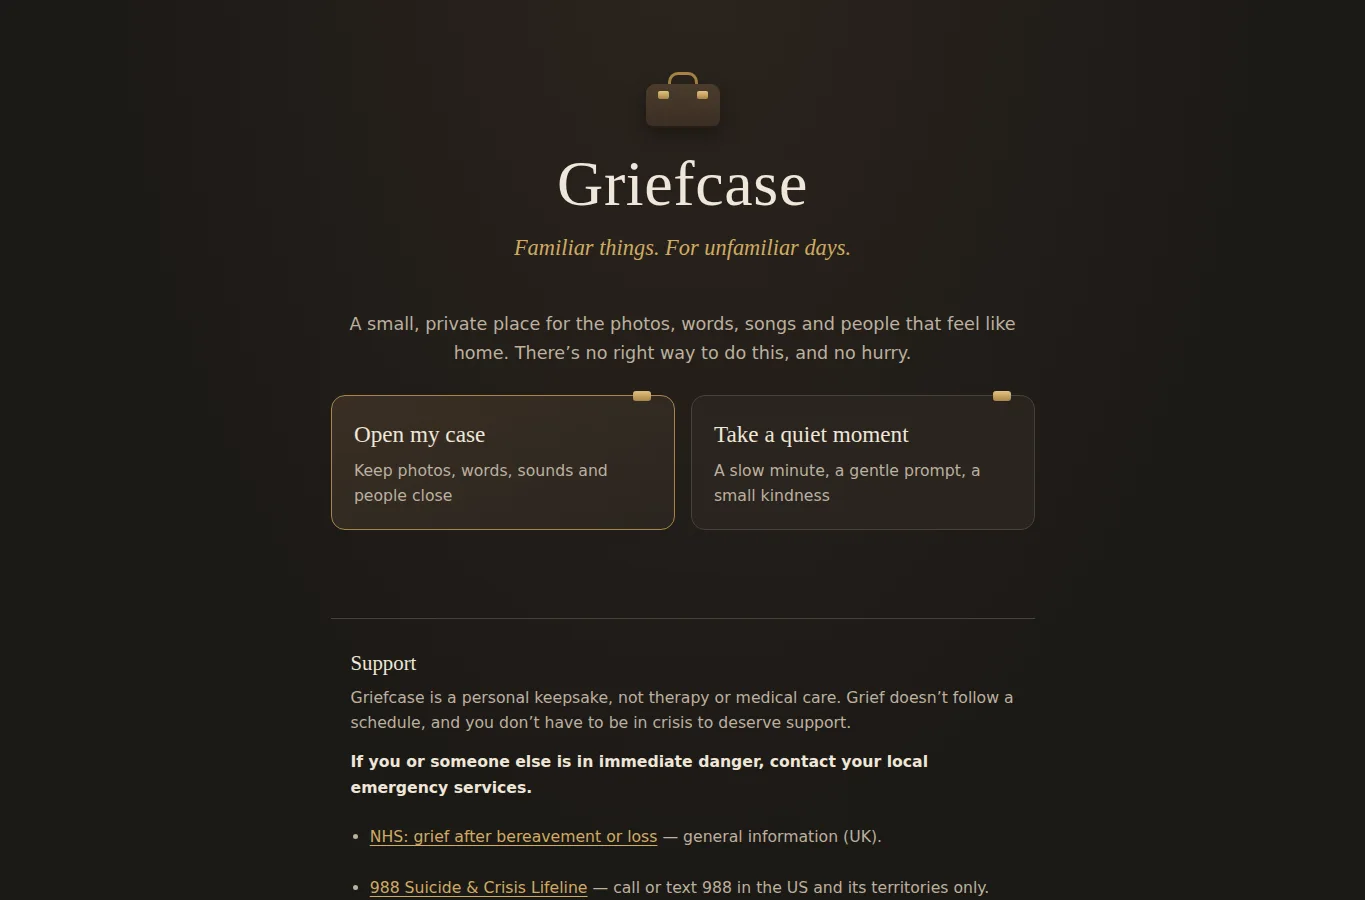
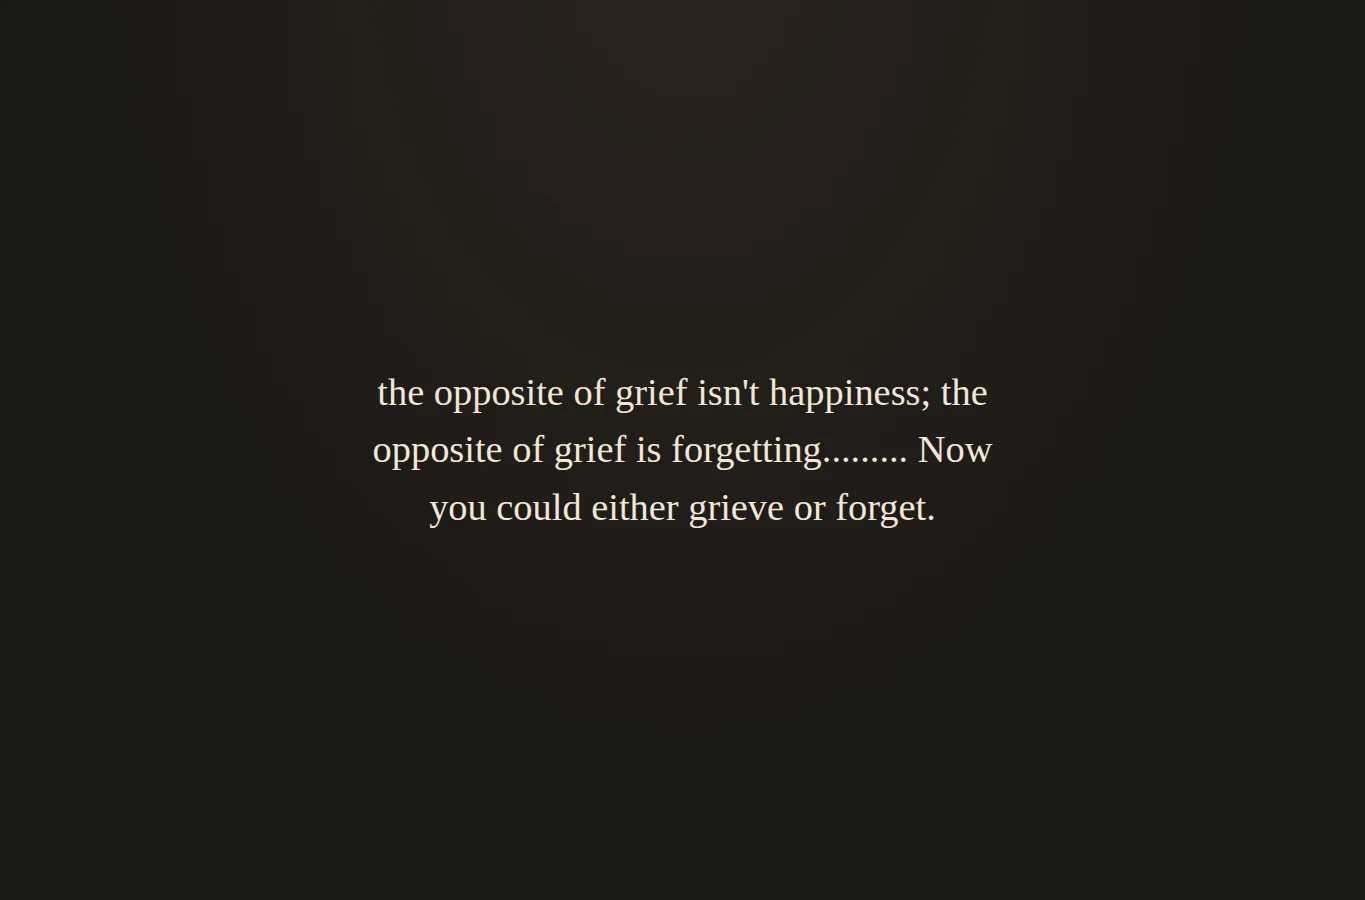
chore: refresh Griefcase preview and repository dates
Griefcase is now a quote-only page at the same URL. Replace its
1365x900 lossy VP8 preview with the live capture (still dated
2026-10-28) and refresh every entry's createdAt/updatedAt from the
owner Pages inventory retrieved 2026-10-28T00:50:50Z; only Griefcase's
updated_at changed. The inventory's 55 has_pages repos minus
github-pages-directory match the 54 catalogued sites. Order, counts and
preview date distribution (40/8/3/1/2) are unchanged.

diff --git a/README.md b/README.md
@@ -40,7 +40,7 @@ separate *GitHub repo* link.
 >
 > **Repository dates:** each entry's `createdAt` / `updatedAt` are the GitHub
 > repository `created_at` / `updated_at` values from the authenticated GitHub REST API
-> (one owner Pages inventory, retrieved 2026-10-28T00:42:13Z), applied to every entry.
+> (one owner Pages inventory, retrieved 2026-10-28T00:50:50Z), applied to every entry.
 > They are repository metadata, not page-content dates — `updated_at` moves on any repository
 > update (pushes, settings, description). They are stored statically; the page makes
 > no GitHub API calls.
